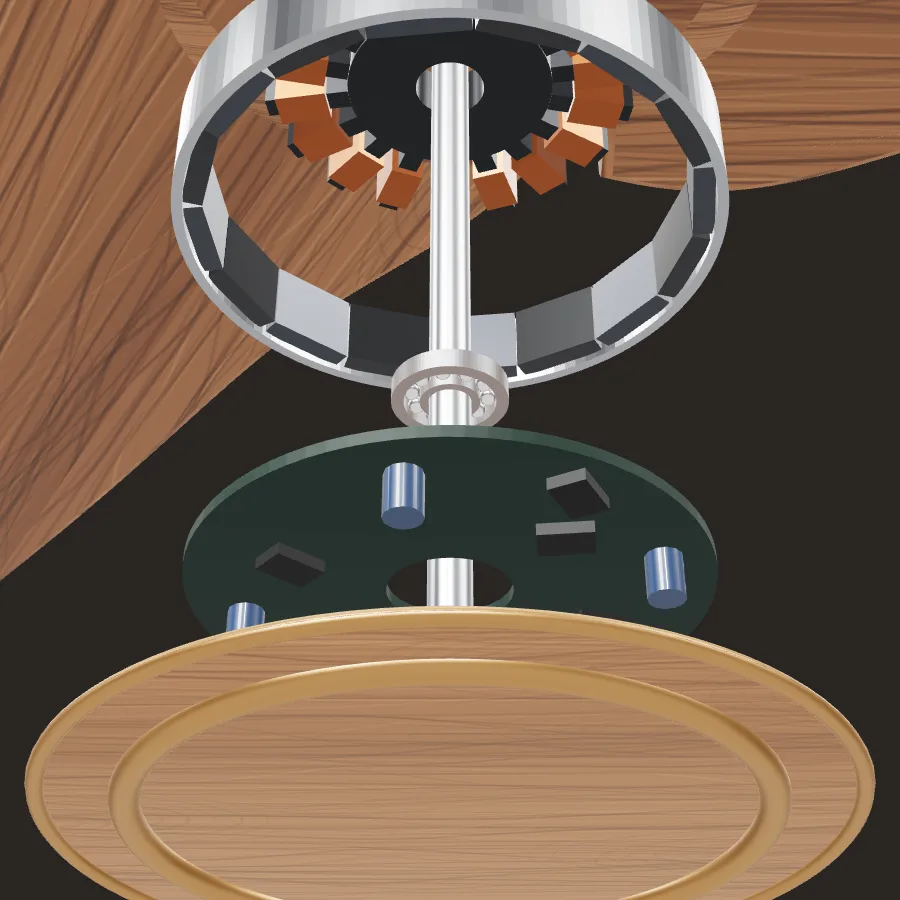
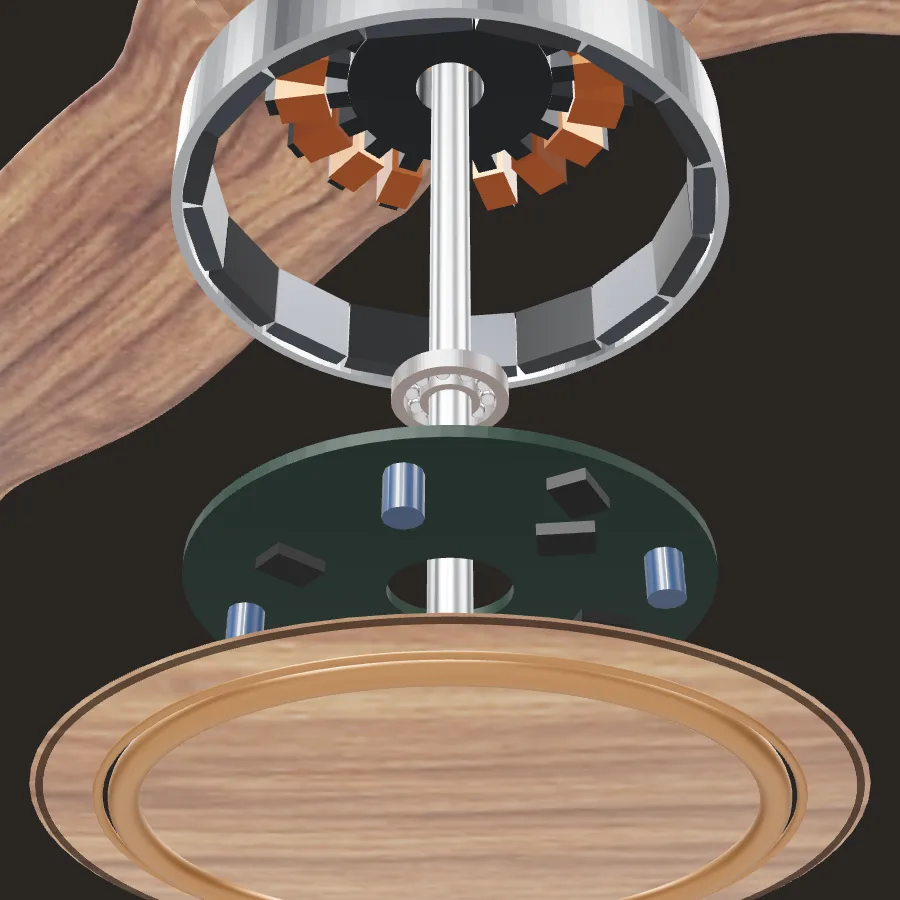
Aeroflow 3D model matched to its studio photos (01, 02): blade outline traced from photo 02 seen from below (camera tilt undone, blades averaged), so the blades curve, widen into one piece round the hub and end in the slanted square tip; blade angle, rise towards the tip, canopy size, drop and motor

diff --git a/src/three/aeroflow-model.js b/src/three/aeroflow-model.js
@@ -1,23 +1,26 @@
 // The Aparna AEROFLOW BLDC ceiling fan (1200 mm, three blades), built procedurally in three.js.
-// References: catalogue leaf 3, poster "04 AEROFLOW", the event standee photo.
+// References: studio photos 01 (three-quarter view from below) and 02 (from below), catalogue leaf 3, poster "04
+// AEROFLOW". The blade outline is traced from photo 02; the blades' angle and rise, the canopy, drop and motor size are
+// fitted so the model's outline lines up with both photos (by a local photo-matching script in .cache/aeroflow-match,
+// not part of the site: its match.mjs measures the difference).
 //
 // Units: the blade tip sits at radius 1. The fan hangs from y = CANOPY_TOP down to the blades at y = 0.
 // The rotor (motor shell + blades) is a separate group so it can spin while the downrod and canopy stay still.
 
 import * as THREE from 'three';
-import { makeWoodTexture } from './wood-texture.js';
+import woodUrl from './textures/aeroflow-wood.webp';
 import { brandMarkCurved } from './brand-mark.js';
 import { neckScrew, CANOPY_GAP } from './fan-mount.js';
 import { createMotorInternals } from './bldc-motor.js';
 
 export const BLADE_COUNT = 3; // Brief §3.7: always exactly three blades.
-export const CANOPY_TOP = 0.6; // studio photo: a short drop, the canopy close above the motor
+export const CANOPY_TOP = 0.696; // studio photo 01 (fitted): the canopy's top, about 0.7 blade radii above the blades
 
 // ---------------------------------------------------------------- finishes
 
 const chrome = { color: '#eceef0', metalness: 1, roughness: 0.18 };
 const copper = { color: '#b8653f', metalness: 1, roughness: 0.28 };
-const bronze = { color: '#b88d5e', metalness: 0.85, roughness: 0.3 }; // the soft bronze rings of the Wood Craft photo
+const bronze = { color: '#c08c68', metalness: 0.85, roughness: 0.3 }; // the soft champagne-copper rings of the Wood Craft photos
 
 export const FINISHES = {
   white: {
@@ -44,7 +47,7 @@ export const FINISHES = {
   wood: {
     blade: { wood: true, roughness: 0.5, clearcoat: 0.45, clearcoatRoughness: 0.3 },
     body: { wood: true, roughness: 0.46, clearcoat: 0.45 }, // the motor shell is wood like the blades
-    mount: { color: '#bd8a64', roughness: 0.42, clearcoat: 0.35 }, // studio photo: a plain tan canopy and downrod
+    mount: { color: '#a56a48', roughness: 0.42, clearcoat: 0.35 }, // studio photo 01: a plain tan canopy and downrod (this shade draws as the photo's tan, 162 111 79, under the site's lights)
     cap: { wood: true, roughness: 0.45, clearcoat: 0.5 },
     trim: { wood: true, roughness: 0.48, clearcoat: 0.45 },
     accent: bronze,
@@ -61,59 +64,144 @@ export function lathe(points, segments = 64) {
   return new THREE.LatheGeometry(curve.getPoints(48), segments);
 }
 
-// One broad paddle blade (studio photo): wide and nearly straight, gently curving back, and flaring much wider
-// at the root so it flows smoothly into the motor shell. The outline is drawn flat (x = out along the radius,
-// y = across the chord), then turned to lie horizontally with a small pitch.
-function bladeGeometry() {
-  const leading = [];
-  const trailing = [];
-  const steps = 40;
-  for (let i = 0; i <= steps; i++) {
-    const x = 0.12 + (0.86 * i) / steps; // starts inside the motor shell, so the roots never show
-    const sweep = 0.1 * (x - 0.1) ** 2; // a gentle backward curve towards the tip
-    const root = 0.15 * Math.exp(-((x - 0.2) ** 2) * 30); // the wide flare where it leaves the collar
-    const width = 0.27 - 0.09 * x + root;
-    leading.push(new THREE.Vector2(x, sweep - width * 0.42));
-    trailing.push(new THREE.Vector2(x, sweep + width * 0.58));
-  }
-  const shape = new THREE.Shape();
-  shape.moveTo(leading[0].x, leading[0].y);
-  shape.splineThru(leading.slice(1));
-  // rounded tip
-  const tipL = leading[steps];
-  const tipT = trailing[steps];
-  shape.bezierCurveTo(tipL.x + 0.045, tipL.y + 0.01, tipT.x + 0.045, tipT.y - 0.01, tipT.x, tipT.y);
-  shape.splineThru(trailing.slice(0, -1).reverse());
-  shape.closePath();
+// One blade's outline, traced from studio photo 02 (the Wood Craft fan seen from below, its camera tilt undone and
+// its blades averaged): [radius (blade tip = 1), edge A, edge B], the edges in degrees from the blade's axis, B on
+// the side the blade curves towards. Near the hub (radius under 0.2) the blades widen until they meet their
+// neighbours (+-60 degrees), so the three form one piece round the hub; beyond, the blade curves gently towards B
+// and ends in a slanted, rounded square tip. (Seen from below, B is clockwise of A.)
+const OUTLINE = [
+  // (the joins round the hub, radius 0.14-0.32, smoothed: the photo's hub ring breaks the trace there. From 0.3 to 0.95
+  // a smooth curve through the trace, within 1.4 degrees of it: a glare on one blade's root in photo 02 read as
+  // background and made a false narrowing there, which photo 01 doesn't show.)
+  [0.12, -60, 60], [0.14, -60, 58], [0.16, -60, 53], [0.18, -59, 49], [0.19, -50, 47.2], [0.2, -42, 45.5],
+  [0.21, -37, 43.3], [0.22, -33.5, 41], [0.24, -29.5, 36], [0.26, -27, 31.5], [0.28, -25, 28.3], [0.3, -23, 26.2],
+  [0.32, -19.76, 25.06], [0.34, -17.97, 24.36], [0.36, -16.42, 23.71], [0.38, -15.08, 23.1], [0.4, -13.92, 22.53], [0.42, -12.92, 21.99],
+  [0.44, -12.05, 21.48], [0.46, -11.29, 20.99], [0.48, -10.61, 20.54], [0.5, -9.99, 20.1], [0.52, -9.43, 19.67], [0.54, -8.9, 19.27],
+  [0.56, -8.39, 18.87], [0.58, -7.88, 18.48], [0.6, -7.38, 18.11], [0.62, -6.87, 17.73], [0.64, -6.34, 17.37], [0.66, -5.8, 17],
+  [0.68, -5.24, 16.64], [0.7, -4.66, 16.28], [0.72, -4.06, 15.91], [0.74, -3.46, 15.55], [0.76, -2.84, 15.19], [0.78, -2.24, 14.82],
+  [0.8, -1.65, 14.46], [0.82, -1.08, 14.09], [0.84, -0.56, 13.73], [0.86, -0.09, 13.37], [0.88, 0.3, 13.01], [0.9, 0.59, 12.65],
+  [0.92, 0.8, 12.3], [0.94, 1.1, 11.95], [0.95, 1.4, 11.8], [0.96, 1.7, 11.4], [0.97, 2, 11], [0.975, 2.1, 10.5],
+  [0.98, 2.1, 9.8], [0.985, 2.4, 8.9], [0.99, 2.8, 8.2], [0.995, 3.5, 7.2], [1, 4.8, 5.9],
+];
+const outlineAt = (f) => {
+  let i = 1;
+  while (i < OUTLINE.length - 1 && OUTLINE[i][0] < f) i++;
+  const [f0, l0, t0] = OUTLINE[i - 1];
+  const [f1, l1, t1] = OUTLINE[i];
+  const k = Math.min(1, Math.max(0, (f - f0) / (f1 - f0)));
+  return [l0 + (l1 - l0) * k, t0 + (t1 - t0) * k];
+};
 
-  const geo = new THREE.ExtrudeGeometry(shape, {
-    depth: 0.022, // thick, rounded blades as pictured
-    bevelEnabled: true,
-    bevelThickness: 0.011,
-    bevelSize: 0.009,
-    bevelSegments: 3,
-    curveSegments: 24,
-  });
-  geo.translate(0, 0, -0.011);
-  geo.rotateX(-Math.PI / 2); // lie flat; the chord now runs along z
-  // Pitch: lift the leading edge so the blade pushes air down.
-  geo.applyMatrix4(new THREE.Matrix4().makeRotationX(-0.08));
+// Its shape across and along, fitted to photos 01 and 02 together (their outlines, matched with the camera of
+// each photo): thickness at the root and the tip; blade angle at the root and the tip (radians, edge B raised;
+// the root is flat where the blades join); how far the blade rises towards its tip (the photos show the tips a
+// little higher than the root); its arch across the chord; the root's height on the motor (the hub's rings stand
+// below it, as pictured); and how far in from edges A and B their rounding reaches.
+export const BLADE = { thickRoot: 0.03, thickTip: 0.011, pitchRoot: 0.135, pitchTip: 0.148, rise: 0.098, camber: 0.008, y: -0.042, edgeA: 0.07, edgeB: 0.035 };
+
+export function bladeGeometry(spec = {}) {
+  const p = { ...BLADE, ...spec };
+  const smooth = (a, b, x) => { const t = Math.min(1, Math.max(0, (x - a) / (b - a))); return t * t * (3 - 2 * t); };
+  const edge = (s, w) => { const x = Math.min(1, Math.max(0, s / w)); return Math.sqrt(1 - (1 - x) ** 2); }; // a rounded edge
+  const stations = [];
+  for (let f = 0.12; f < 0.949; f += 0.01) stations.push(f);
+  for (let f = 0.95; f < 0.999; f += 0.0025) stations.push(f);
+  stations.push(1);
+  const n = 32; // points across the chord, closer together at the edges
+  const pos = [];
+  const uv = [];
+  const index = [];
+  const tops = [];
+  const bottoms = [];
+  for (const f of stations) {
+    const [L, T] = outlineAt(f).map((a) => (a * Math.PI) / 180);
+    const chord = f * (T - L);
+    const aJoined = L <= (-59.9 * Math.PI) / 180; // joined to the next blade here: no edge
+    const bJoined = T >= (59.9 * Math.PI) / 180;
+    const k = smooth(0.2, 1, f);
+    const thick = p.thickRoot + (p.thickTip - p.thickRoot) * k;
+    const flat = smooth(0.14, 0.42, f);
+    const pitch = (p.pitchRoot + (p.pitchTip - p.pitchRoot) * k) * flat;
+    const y0 = p.y + p.rise * Math.max(0, f - 0.2);
+    const top = [];
+    const bottom = [];
+    for (let j = 0; j <= n; j++) {
+      const u = (1 - Math.cos((Math.PI * j) / n)) / 2;
+      const a = L + (T - L) * u;
+      const s = chord * u; // distance from edge A
+      const half = (thick / 2) * (aJoined ? 1 : edge(s, p.edgeA)) * (bJoined ? 1 : edge(chord - s, p.edgeB));
+      const mid = y0 + Math.sin(pitch) * (s - chord * 0.4) + p.camber * flat * 4 * u * (1 - u) * (chord / 0.25);
+      const x = f * Math.cos(a);
+      const z = -f * Math.sin(a);
+      top.push(pos.length / 3);
+      pos.push(x, mid + half, z);
+      uv.push((f - 0.12) / 0.88, u);
+      bottom.push(pos.length / 3);
+      pos.push(x, mid - half, z);
+      uv.push((f - 0.12) / 0.88, u);
+    }
+    tops.push(top);
+    bottoms.push(bottom);
+  }
+  const quad = (a, b, c, d) => index.push(a, b, d, b, c, d);
+  for (let i = 0; i < stations.length - 1; i++) {
+    for (let j = 0; j < n; j++) {
+      quad(tops[i][j], tops[i + 1][j], tops[i + 1][j + 1], tops[i][j + 1]);
+      quad(bottoms[i][j + 1], bottoms[i + 1][j + 1], bottoms[i + 1][j], bottoms[i][j]);
+    }
+    // the sides (zero height along a real edge; a wall where the blade joins its neighbour)
+    quad(bottoms[i][0], bottoms[i + 1][0], tops[i + 1][0], tops[i][0]);
+    quad(tops[i][n], tops[i + 1][n], bottoms[i + 1][n], bottoms[i][n]);
+  }
+  // close the tip and the root end
+  const last = stations.length - 1;
+  for (let j = 0; j < n; j++) {
+    quad(tops[last][j], tops[last][j + 1], bottoms[last][j + 1], bottoms[last][j]);
+    quad(bottoms[0][j], bottoms[0][j + 1], tops[0][j + 1], tops[0][j]);
+  }
+  const geo = new THREE.BufferGeometry();
+  geo.setAttribute('position', new THREE.Float32BufferAttribute(pos, 3));
+  geo.setAttribute('uv', new THREE.Float32BufferAttribute(uv, 2));
+  geo.setIndex(index);
   geo.computeVertexNormals();
   return geo;
 }
 
-// Maps a texture straight across a shape from above (x, z), so wood grain runs in lines, not rings.
-function flatGrain(geo, scale = 2.2) {
+// Maps the wood straight across a shape from above (x, z), so its grain runs in lines, not rings, at the same size
+// as on the blades (the texture spans a blade's length, 0.88, and about its width, 0.25).
+function flatGrain(geo) {
   const pos = geo.getAttribute('position');
   const uv = geo.getAttribute('uv');
-  for (let i = 0; i < pos.count; i++) uv.setXY(i, pos.getX(i) * scale + 0.5, pos.getZ(i) * scale + 0.5);
+  for (let i = 0; i < pos.count; i++) uv.setXY(i, pos.getX(i) / 0.88 + 0.5, pos.getZ(i) / 0.25 + 0.5);
   uv.needsUpdate = true;
+}
+
+// The Wood Craft finish: the real wood of studio photo 01, cut from its left blade with the photo's broad lighting
+// evened out (by the local script .cache/aeroflow-match/wood.cjs). Grain along the texture's x, the blade's length. Until the picture
+// has loaded the wood shows its average colour (never black); ready resolves once it has (or failed to).
+function photoWood() {
+  const canvas = document.createElement('canvas');
+  canvas.width = canvas.height = 2;
+  const ctx = canvas.getContext('2d');
+  ctx.fillStyle = '#aa7c65';
+  ctx.fillRect(0, 0, 2, 2);
+  const tex = new THREE.Texture(canvas);
+  tex.colorSpace = THREE.SRGBColorSpace;
+  tex.wrapS = THREE.ClampToEdgeWrapping;
+  tex.wrapT = THREE.MirroredRepeatWrapping; // the hub is wider than a blade: the grain mirrors beyond it
+  tex.anisotropy = 4;
+  tex.needsUpdate = true;
+  const ready = new Promise((resolve) => {
+    // a new size needs new storage on the graphics card: dispose() drops the placeholder's, the next draw makes it again
+    new THREE.ImageLoader().load(woodUrl, (image) => { tex.image = image; tex.dispose(); tex.needsUpdate = true; resolve(); }, undefined, () => resolve());
+  });
+  return { tex, ready };
 }
 
 // ---------------------------------------------------------------- the fan
 
-export function createAeroflow({ shadows = false } = {}) {
-  const wood = makeWoodTexture();
+export function createAeroflow({ shadows = false, blade = {} } = {}) {
+  const { tex: wood, ready } = photoWood();
   // Double-sided so the open lathe shapes (canopy, shell, cap) look solid from every camera angle.
   const material = () => new THREE.MeshPhysicalMaterial({ side: THREE.DoubleSide });
   const materials = { blade: material(), body: material(), mount: material(), cap: material(), trim: material(), accent: material() };
@@ -121,23 +209,24 @@ export function createAeroflow({ shadows = false } = {}) {
   const fan = new THREE.Group();
   fan.name = 'aeroflow';
 
-  // Canopy (studio photo): a smooth flared funnel, wide and flat at the top, narrowing into a stout downrod.
+  // Canopy (studio photo 01, its size fitted to the photo's outline): a smooth flared funnel, wide and flat at the
+  // top, narrowing into a stout downrod.
   const canopy = new THREE.Mesh(
-    lathe([[0, CANOPY_TOP], [0.09, CANOPY_TOP], [0.093, CANOPY_TOP - 0.008], [0.086, CANOPY_TOP - 0.03], [0.071, CANOPY_TOP - 0.06], [0.056, CANOPY_TOP - 0.095], [0.046, CANOPY_TOP - 0.125], [0.04, CANOPY_TOP - 0.15]]),
+    lathe([[0, CANOPY_TOP], [0.1085, CANOPY_TOP], [0.1122, CANOPY_TOP - 0.0107], [0.1037, CANOPY_TOP - 0.0399], [0.0856, CANOPY_TOP - 0.0798], [0.0675, CANOPY_TOP - 0.1264], [0.0555, CANOPY_TOP - 0.1663], [0.0482, CANOPY_TOP - 0.1996]]),
     materials.mount,
   );
   // Downrod: stout. At its foot the bottom canopy, a separate trumpet-shaped cover over the rod-to-motor joint,
   // flares down to just above the motor (Aparna's manual: 3-4 mm), held by a screw on its neck.
-  const downrod = new THREE.Mesh(lathe([[0.039, CANOPY_TOP - 0.15], [0.037, 0.2]], 24), materials.mount);
+  const downrod = new THREE.Mesh(lathe([[0.039, CANOPY_TOP - 0.1996], [0.037, 0.22]], 24), materials.mount);
   const bottomCanopy = new THREE.Mesh(
-    lathe([[0.037, 0.225], [0.041, 0.222], [0.041, 0.175], [0.049, 0.13], [0.068, 0.096], [0.1, 0.074], [0.13, 0.062 + CANOPY_GAP * 0.5], [0.148, 0.051 + CANOPY_GAP]], 48),
+    lathe([[0.037, 0.248], [0.041, 0.245], [0.041, 0.193], [0.049, 0.143], [0.068, 0.106], [0.1, 0.078], [0.13, 0.062 + CANOPY_GAP * 0.5], [0.148, 0.051 + CANOPY_GAP]], 48),
     materials.mount,
   );
-  const canopyScrews = [neckScrew(materials.mount, { r: 0.041, y: 0.205, angle: 1.4 }), neckScrew(materials.mount, { r: 0.05, y: CANOPY_TOP - 0.125, angle: 1.4 })];
-  // the logo printed on the front of the canopy: red on the light finishes, white on grey
+  const canopyScrews = [neckScrew(materials.mount, { r: 0.041, y: 0.226, angle: 1.4 }), neckScrew(materials.mount, { r: 0.0603, y: CANOPY_TOP - 0.1664, angle: 1.4 })];
+  // the logo printed on the front of the canopy: red on white and golden, white on grey and Wood Craft (studio photo 01)
   const logos = {
-    red: brandMarkCurved({ colour: 'red', width: 0.06, radius: 0.0905, y: CANOPY_TOP - 0.026 }),
-    white: brandMarkCurved({ colour: 'white', width: 0.06, radius: 0.0905, y: CANOPY_TOP - 0.026 }),
+    red: brandMarkCurved({ colour: 'red', width: 0.072, radius: 0.109, y: CANOPY_TOP - 0.035 }),
+    white: brandMarkCurved({ colour: 'white', width: 0.072, radius: 0.109, y: CANOPY_TOP - 0.035 }),
   };
   const stator = new THREE.Group(); // parts that stay still
   stator.add(canopy, downrod, bottomCanopy, ...canopyScrews, logos.red, logos.white);
@@ -147,13 +236,15 @@ export function createAeroflow({ shadows = false } = {}) {
   rotor.name = 'rotor';
 
   const shell = new THREE.Mesh(
-    lathe([[0, 0.058], [0.09, 0.055], [0.15, 0.045], [0.198, 0.02], [0.208, -0.015], [0.214, -0.042], [0.222, -0.056], [0.218, -0.066], [0.2, -0.0718], [0.18, -0.0735]]),
+    // narrower than the blades' joined root (photos 01 and 02: it never shows between the blades from below)
+    lathe([[0, 0.058], [0.09, 0.055], [0.15, 0.045], [0.175, 0.025], [0.183, -0.005], [0.185, -0.042], [0.186, -0.056], [0.184, -0.066], [0.178, -0.0718], [0.165, -0.0735]]),
     materials.body,
   );
-  // Seen from below (studio photos, posters 03/04): a smooth collar in the body colour that the blades grow
-  // out of, a thin bright ring (chrome, or copper on golden and wood) and a flat cap set just inside it.
+  // Seen from below (studio photo 01, close up): a raised flat ring in the body colour standing below the blades'
+  // joined root, edged by a fine dark groove; inside it a step with a thin bright edge, then the bright ring
+  // (chrome, or copper on golden and wood) and the flat cap set just inside it.
   const trim = new THREE.Mesh(
-    lathe([[0.18, -0.0735], [0.152, -0.074], [0.144, -0.074]]),
+    lathe([[0.178, -0.0733], [0.152, -0.0742], [0.148, -0.0742]]),
     materials.trim,
   );
   const accent = new THREE.Mesh(new THREE.TorusGeometry(0.139, 0.0068, 16, 96), materials.accent);
@@ -163,14 +254,14 @@ export function createAeroflow({ shadows = false } = {}) {
     lathe([[0.133, -0.0715], [0.12, -0.072], [0, -0.0722]]),
     materials.cap,
   );
-  // the fine seam where each blade meets the hub, following the collar's edge
-  // a thin raised lip a little outside the ring (the photos' second, finer ring)
-  const lip = new THREE.Mesh(new THREE.TorusGeometry(0.176, 0.0038, 12, 96), materials.accent);
+  // the thin bright edge of the step inside the flat ring
+  const lip = new THREE.Mesh(new THREE.TorusGeometry(0.15, 0.0022, 10, 96), materials.accent);
   lip.rotation.x = Math.PI / 2;
-  lip.position.y = -0.0738;
-  const seam = new THREE.Mesh(new THREE.TorusGeometry(0.219, 0.0016, 6, 128), new THREE.MeshBasicMaterial({ color: '#2a1d15', transparent: true, opacity: 0.5 }));
+  lip.position.y = -0.0742;
+  // the fine dark groove round the flat ring's outer edge
+  const seam = new THREE.Mesh(new THREE.TorusGeometry(0.174, 0.0016, 6, 128), new THREE.MeshBasicMaterial({ color: '#2a1d15', transparent: true, opacity: 0.6 }));
   seam.rotation.x = Math.PI / 2;
-  seam.position.y = -0.062;
+  seam.position.y = -0.0737;
   // straight wood grain across the hub's underside (a lathe's own mapping would draw tree rings)
   for (const m of [shell, trim, cap]) flatGrain(m.geometry);
   rotor.add(shell, trim, accent, lip, cap, seam);
@@ -178,7 +269,7 @@ export function createAeroflow({ shadows = false } = {}) {
   // the motor's insides (home page "01" and "05" steps): hidden in the closed housing until the split opens it
   const internals = createMotorInternals();
   stator.add(internals.group);
-  const bottomCover = [trim, accent, lip, cap]; // (the blade seam stays with the blades)
+  const bottomCover = [trim, accent, lip, cap, seam];
   const coverY = bottomCover.map((m) => m.position.y);
   // t: 0 closed .. 1 open; spread: how far apart (1 on desktop, tighter on phones); layout: 0 ("01") .. 1 ("05")
   function setExplode(t, spread = 1, layout = 0) {
@@ -195,12 +286,11 @@ export function createAeroflow({ shadows = false } = {}) {
     for (const m of [materials.trim, materials.accent, materials.cap]) m.emissive.copy(coverGlow).multiplyScalar(0.14 * f);
   }
 
-  const bladeGeo = bladeGeometry();
+  const bladeGeo = bladeGeometry(blade);
   const blades = [];
   for (let i = 0; i < BLADE_COUNT; i++) {
     const pivot = new THREE.Group(); // the pivot lets the intro animation fold and unfold each blade
     const blade = new THREE.Mesh(bladeGeo, materials.blade);
-    blade.position.y = -0.038; // low on the motor: the blades' underside runs level with the collar, as pictured
     pivot.add(blade);
     pivot.userData.restAngle = (i * Math.PI * 2) / BLADE_COUNT;
     pivot.rotation.y = pivot.userData.restAngle;
@@ -230,8 +320,9 @@ export function createAeroflow({ shadows = false } = {}) {
 
   function setFinish(name) {
     const finish = FINISHES[name] ?? FINISHES.wood;
-    logos.white.visible = name === 'grey';
-    logos.red.visible = name !== 'grey';
+    const whiteLogo = finish === FINISHES.grey || finish === FINISHES.wood;
+    logos.white.visible = whiteLogo;
+    logos.red.visible = !whiteLogo;
     for (const [part, spec] of Object.entries(finish)) {
       const m = materials[part];
       const { wood: useWood, color = '#ffffff', ...rest } = spec;
@@ -249,7 +340,7 @@ export function createAeroflow({ shadows = false } = {}) {
   }
 
   setFinish('wood');
-  return { fan, rotor, stator, blades, blurDisc, hitArea, setFinish, setExplode, setFocus, explodeAnchors: internals.anchors };
+  return { fan, rotor, stator, blades, blurDisc, hitArea, setFinish, setExplode, setFocus, explodeAnchors: internals.anchors, ready };
 }
 
 export function makeBlurTexture() {

diff --git a/tools/fan-still.html b/tools/fan-still.html
@@ -24,6 +24,7 @@
         if (params.has(key)) fan.pose[key] = Number(params.get(key));
       }
       fan.setFinish(params.get('finish') || 'wood');
+      await fan.ready; // the wood picture
       fan.render();
       document.body.dataset.ready = '1';
     </script>
